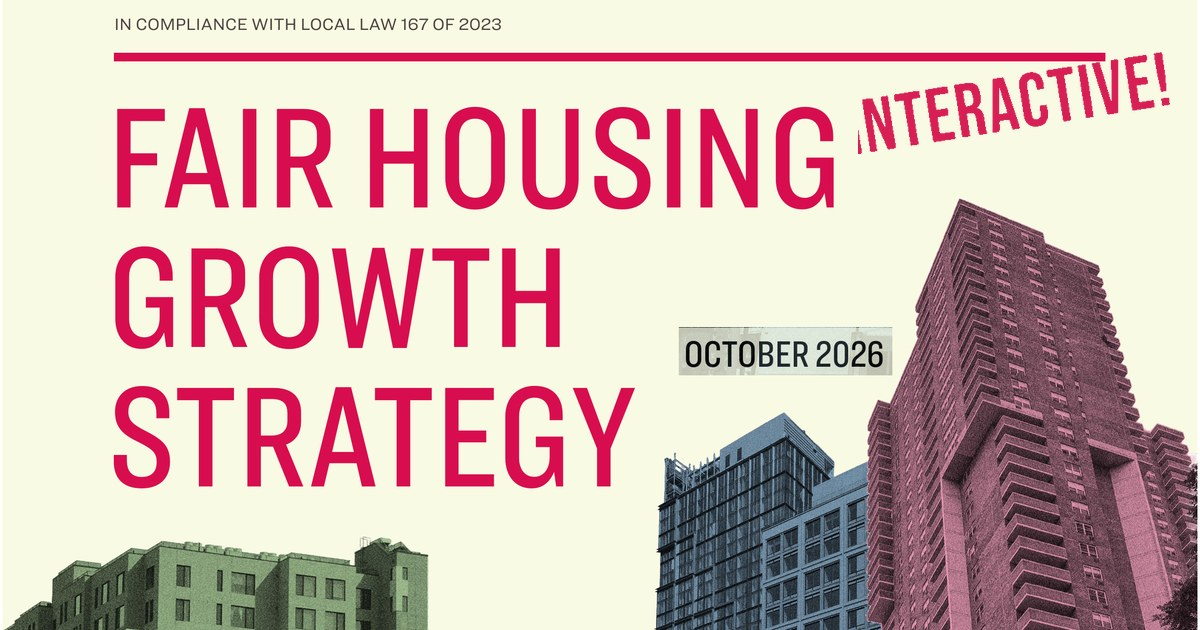
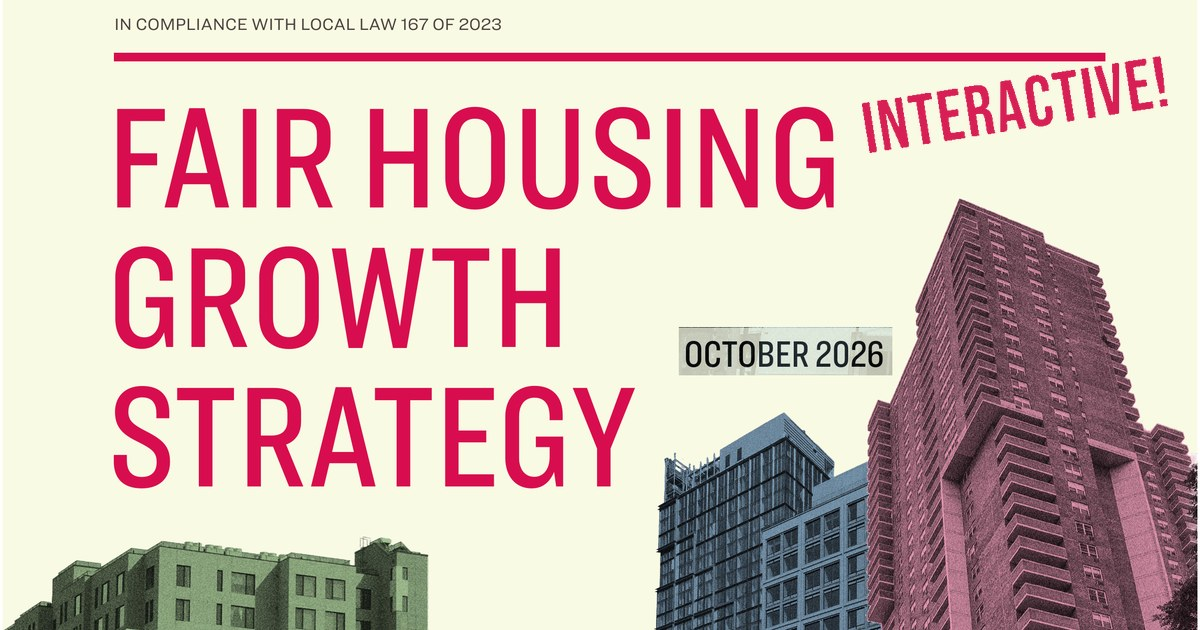
FHGS cover, OG and home button images: INTERACTIVE! shown in full

Changed region(s): [[0.7092, 0.0905, 0.9867, 0.2413]]

diff --git a/fhgs/index.html b/fhgs/index.html
@@ -8,11 +8,11 @@
 <meta property="og:title" content="Fair Housing Growth Strategy: Final Report">
 <meta property="og:description" content="HPD and DCP&rsquo;s first Fair Housing Growth Strategy, the final report of October 2026, searchable: 700,000 homes needed by 2035, 350,000 by 2030, the 2030 target for all 59 community districts on a map, how each one was set, and the 21 equity strategies.">
 <meta property="og:url" content="https://bkcb6.app/fhgs/">
-<meta property="og:image" content="https://bkcb6.app/og-fhgs.jpg?v=3">
+<meta property="og:image" content="https://bkcb6.app/og-fhgs.jpg?v=4">
 <meta property="og:image:width" content="1200"><meta property="og:image:height" content="630">
 <meta property="og:image:alt" content="Fair Housing Growth Strategy, final report, October 2026, interactive at bkcb6.app/fhgs">
 <meta name="twitter:card" content="summary_large_image">
-<meta name="twitter:image" content="https://bkcb6.app/og-fhgs.jpg?v=3">
+<meta name="twitter:image" content="https://bkcb6.app/og-fhgs.jpg?v=4">
 <title>Fair Housing Growth Strategy &mdash; bkcb6.app</title>
 <link rel="preconnect" href="https://fonts.googleapis.com">
 <link rel="preconnect" href="https://fonts.gstatic.com" crossorigin>
@@ -256,7 +256,7 @@ table.tt{border-collapse:collapse;width:100%;min-width:760px;font-size:.78rem}
   </header>
 
   <a class="planbanner" href="#p-1" data-open-page="1">
-    <img src="/fhgs/cover.jpg?v=3" width="1200" height="630" alt="Fair Housing Growth Strategy, October 2026, Where We Live NYC, interactive">
+    <img src="/fhgs/cover.jpg?v=4" width="1200" height="630" alt="Fair Housing Growth Strategy, October 2026, Where We Live NYC, interactive">
   </a>
 
   <div class="numbar" id="numbar"></div>

diff --git a/index.html b/index.html
@@ -490,7 +490,7 @@
     <img src="app-home/btn-bkcompplan.jpg" width="1200" height="930" alt="The 2025 Comprehensive Plan for Brooklyn, interactive" loading="lazy">
   </a>
 <a class="hero-link" href="/fhgs/" style="margin-bottom:14px">
-    <img src="app-home/btn-fhgs.jpg?v=2" width="1200" height="930" alt="Fair Housing Growth Strategy final report, interactive" loading="lazy">
+    <img src="app-home/btn-fhgs.jpg?v=3" width="1200" height="930" alt="Fair Housing Growth Strategy final report, interactive" loading="lazy">
   </a>
 
   <a class="iso-btn" href="/useofland/" style="margin-top:12px">

diff --git a/sw.js b/sw.js
@@ -1,5 +1,5 @@
 // CB6 & Beyond — Service Worker
-const CACHE_VERSION = 'cb6-v6662072';
+const CACHE_VERSION = 'cb6-v6662073';
 const CORE_ASSETS = [
   '/',
   '/index.html',
